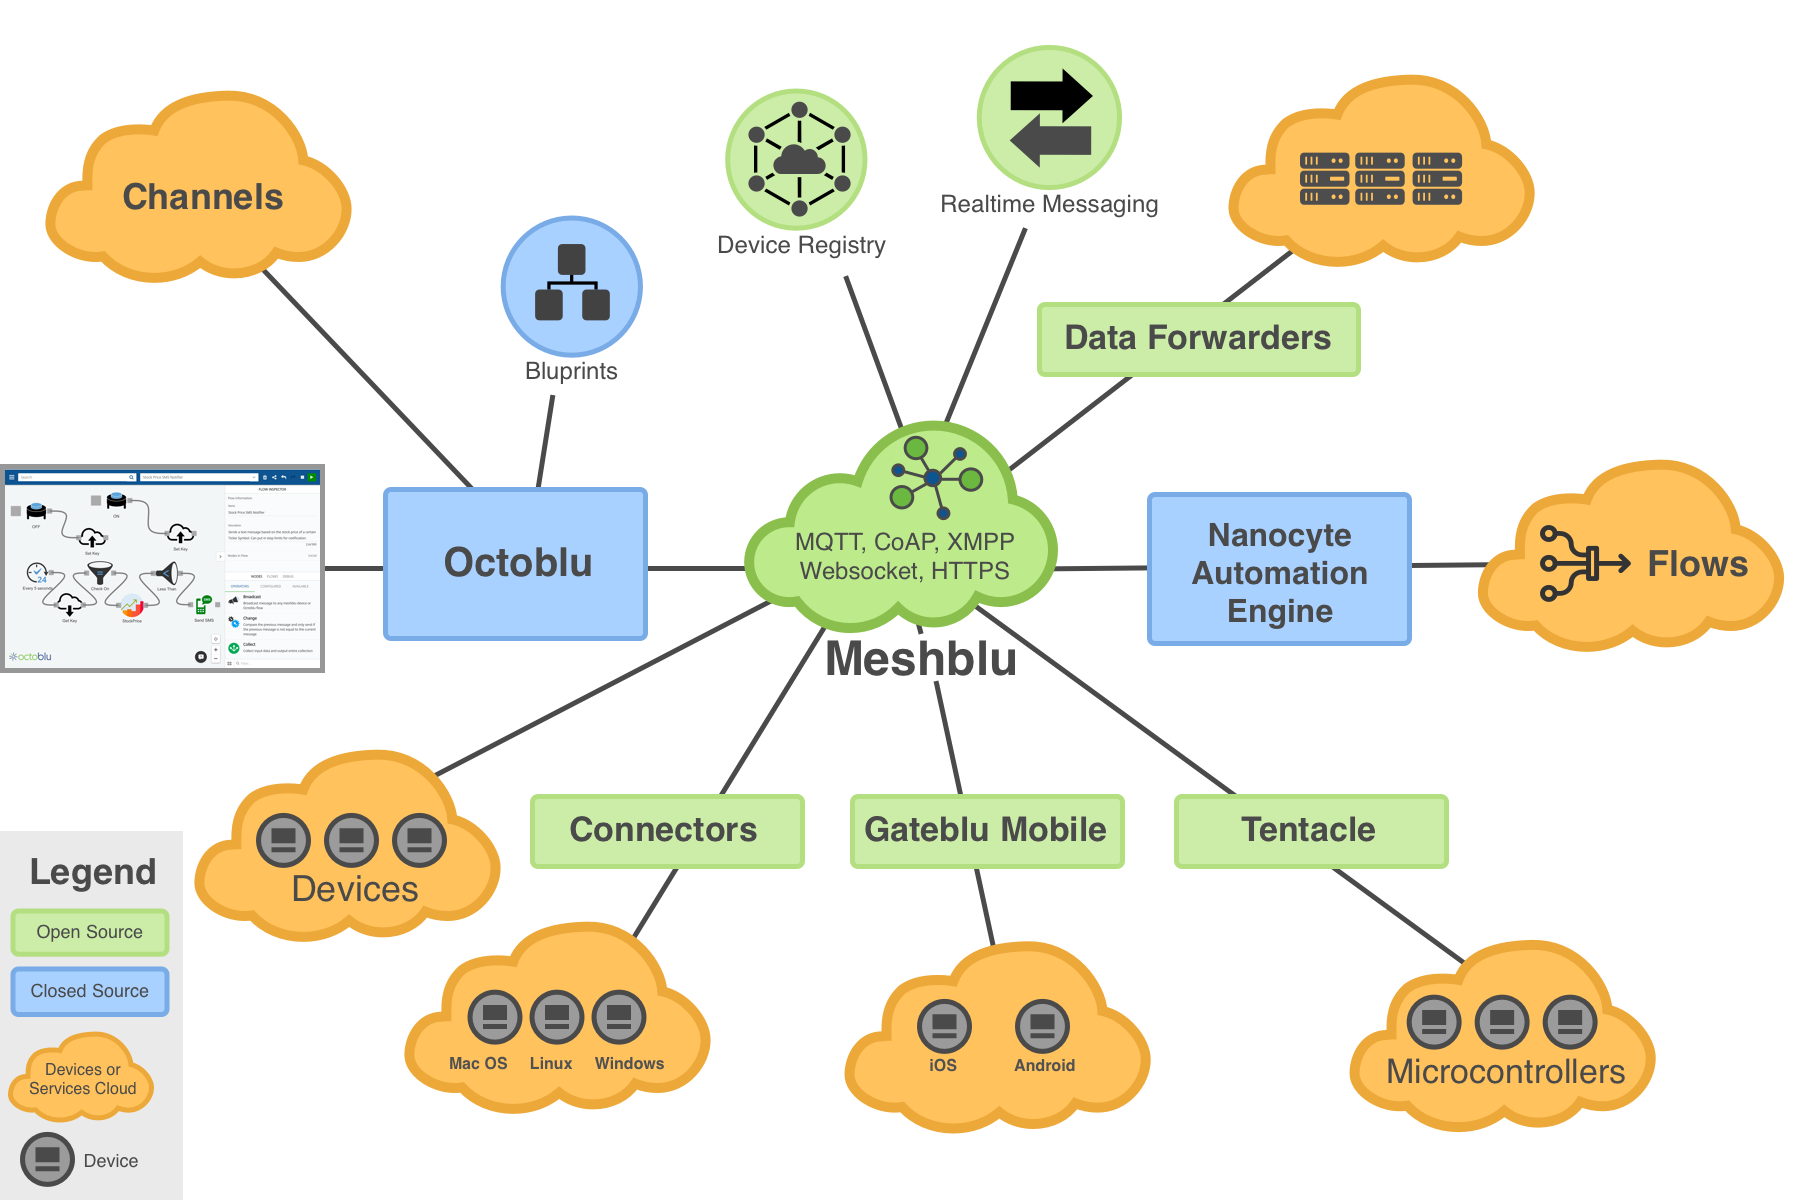
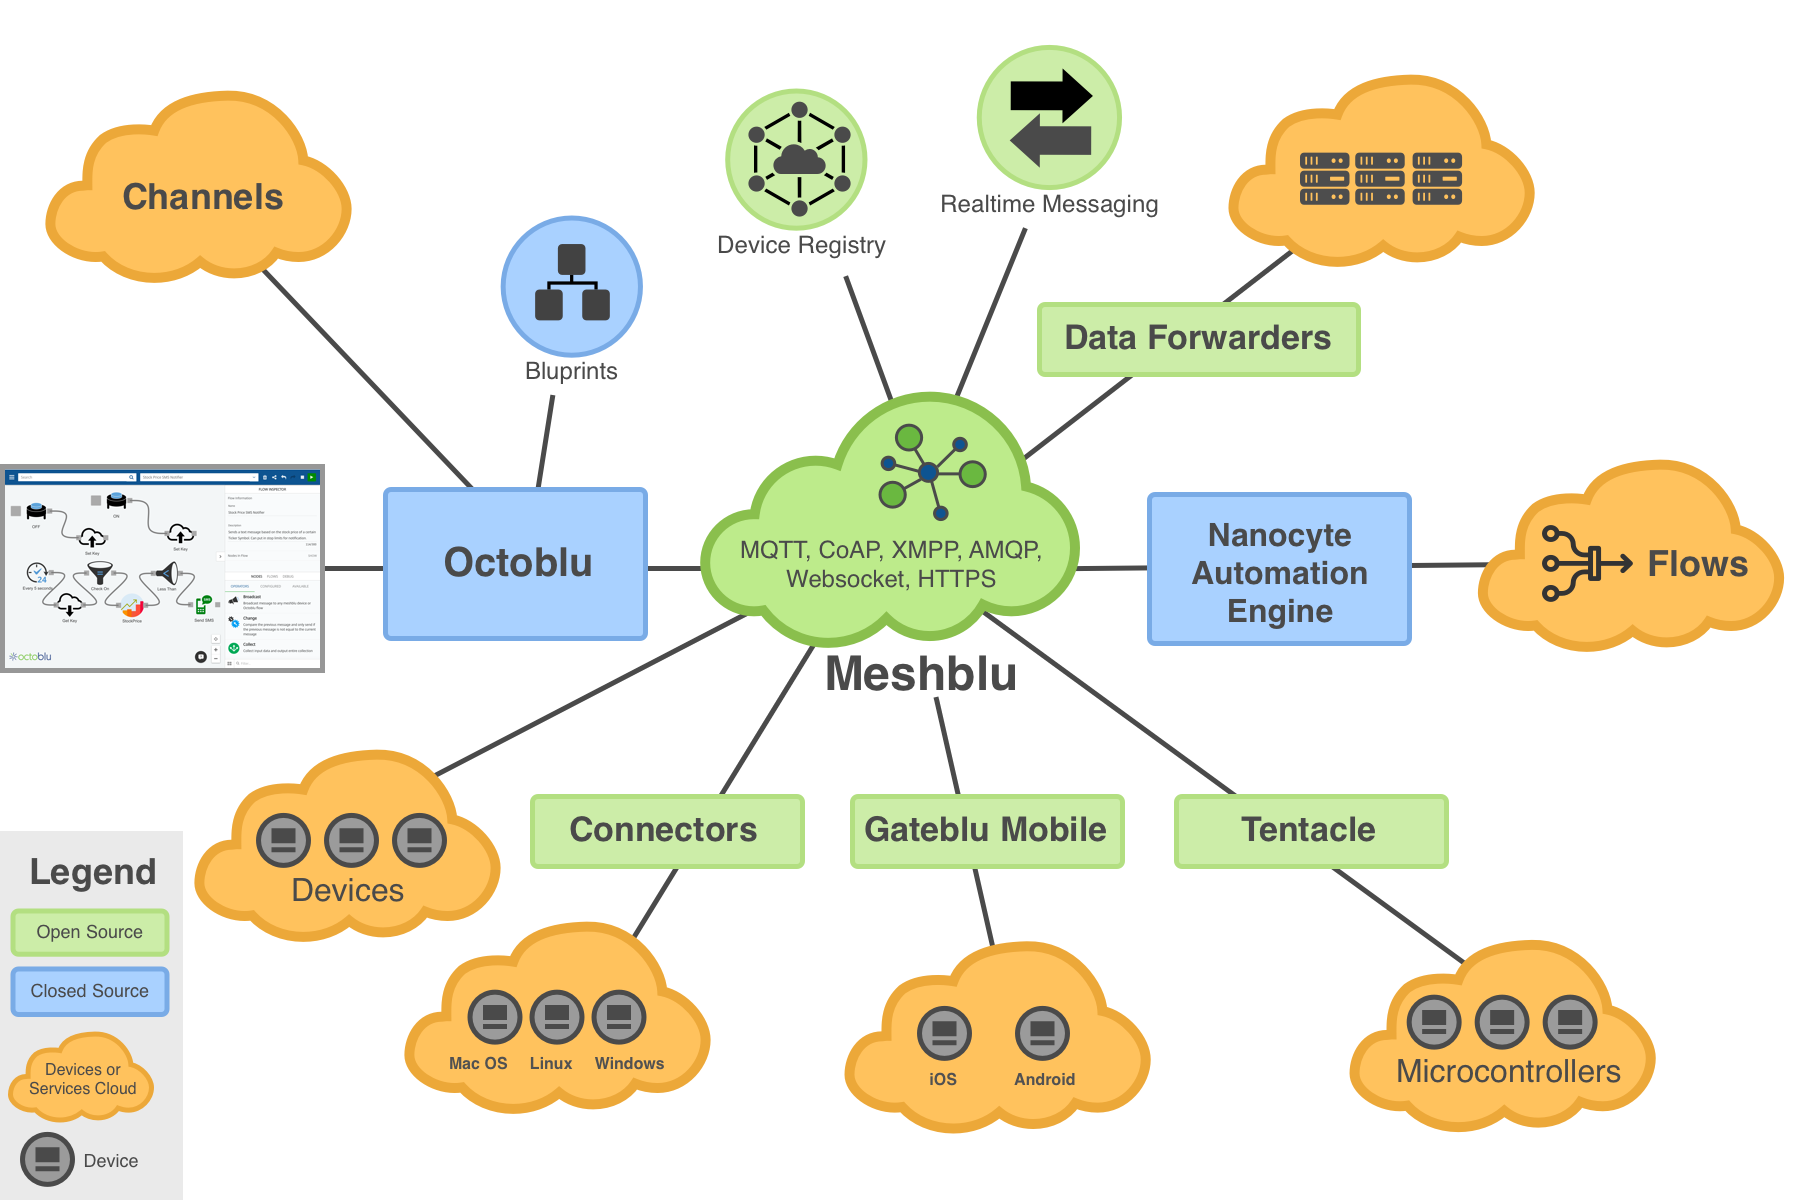
added amqp to website

diff --git a/site/index.html b/site/index.html
@@ -87,8 +87,9 @@
 					<div class="col-sm-8 col-sm-offset-2">
 						<h1 class="text-center">Octoblu Overview</h1>
             <br/>
-            <h2>Octoblu (<strong>now part of Citrix</strong>) is a full-stack Internet of Things messaging and automation platform that enables companies to create IoT services with secure real-time exchange of data. </h2><br/>
-						<p>Octoblu's IoT services are built on our open source <a href="https://developer.octoblu.com">Meshblu</a> platform, an open communications and management platform that supports a variety of protocols for physical devices to communicate seamlessly with each other, people, and web services. Through public, private, or hybrid clouds users can connect, design, process, and analyze the flow of information. All services have been designed through a robust security and right management architecture.</p>
+            <p style="font-size:1.5em">Octoblu (<strong>now part of Citrix</strong>) is a full-stack Internet of Things messaging and automation platform that enables companies to create IoT services with secure real-time exchange of data. </h2><br/>
+            <br/>
+            <p style="font-size:1.5em">Octoblu's IoT services are built on our open source <a href="https://developer.octoblu.com">Meshblu</a> platform, an open communications and management platform that supports a variety of protocols for physical devices to communicate seamlessly with each other, people, and web services. Through public, private, or hybrid clouds users can connect, design, process, and analyze the flow of information. All services have been designed through a robust security and right management architecture.</p>
 
             <div id="video-section">
               <div class="container">
@@ -102,8 +103,9 @@
               </div>
             </div>
 
-            <p>Our IoT platform can run as a SaaS offering in our cloud or as an on-premise private cloud or as an edge/mesh network in a home, car, construction site, retail store, emergency room, smart city, etc. </p>
-            <p>Even better, the entire Octoblu IoT stack can run on Intel, Dell, and/or HPE IoT Gateways!</p>
+            <p style="font-size:1.5em">Our IoT platform can run as a SaaS offering in our cloud or as an on-premise private cloud or as an edge/mesh network in a home, car, construction site, retail store, emergency room, smart city, etc. </p>
+            <br/>
+            <p style="font-size:1.5em">Even better, the entire Octoblu IoT stack can run on Intel, Dell, and HPE IoT Gateways!</p>
 
 					</div>
 				</div>
@@ -132,7 +134,7 @@
 						<h2>Connectors</h2>
 						<p>Octoblu connects smart devices, wearable devices, sensors, cars, homes, offices, robots and web services (REST APIs) together via our global mesh network!</p>
             <p>
-              Our platform allows like and unlike devices to communicate using HTTP, WebSockets, MQTT, CoAP, and XMPP. Additional protocols such as AllJoyn, BLE, XMPP, SNMP etc. can be bridged into Octoblu using our Gateblu gateway. We prefer to connect things to Octoblu via their native protocols. We also connect all of Citrix's products and third-party REST APIs together.
+              Our platform allows like and unlike devices to communicate using HTTP, WebSockets, MQTT, CoAP, XMPP, and AMQP. Additional protocols such as AllJoyn, BLE, SNMP etc. can be bridged into Octoblu using our Gateblu gateway. We prefer to connect things to Octoblu via their native protocols. We also connect all of Citrix's products and third-party REST APIs together.
             </p>
 					</div>
 				</div>
@@ -228,12 +230,12 @@
           <div class="col-sm-12 col-md-12">
             <div class="product-info">
               <h1 class="text-center">Solutions</h1><br/>
-              <h3>
+              <p style="font-size:1.5em">
                 With the market for smart devices growing exponentially, IoT is becoming an increasingly critical component of enterprise IT strategies. In conjunction with the Citrix enterprise suite, Octoblu offers a powerful solution for automating, monitoring, and analyzing the connected enterprise workspace.
-              </h3>
-              <h3>
+              </p><br/>
+              <p style="font-size:1.5em">
                 With Octoblu, Citrix is pioneering the Future of Work, where context-aware environments synthesize data from a variety of sources to respond to the needs of the user.
-              </h3>
+              </p>
             </div>
           </div>
         </div>
@@ -436,8 +438,8 @@
 			<div class="padding">
 				<div class="row section-title text-centerx">
 					<div class="col-sm-8 col-sm-offset-2">
-						<h1 class="text-center">Platform Specifications</h1>
-						<p>Octoblu is a full-stack Internet of Things platform capable of automating solutions in any vertical market. Approximately 80% of our IoT stack is open source (<span style="color:green">everything in green below</span>) with over 800 repositories available on <a href="https://github.com/octoblu">GitHub</a>.</p>
+						<h1 class="text-center">Platform Specifications</h1><br/>
+						<p style="font-size:1.5em">Octoblu is a full-stack Internet of Things platform capable of automating solutions in any vertical market. Approximately 80% of our IoT stack is <strong>open source</strong> (<span style="color:green">everything in green below</span>) with over 800 repositories available on <a href="https://github.com/octoblu">GitHub</a>.</p>
             <img class="img-responsive" src="images/others/architecture.png" alt="" />
 					</div>
 				</div>
@@ -452,6 +454,7 @@
 									<li>MQTT</li>
 									<li>CoAP</li>
                   <li>XMPP</li>
+                  <li>AMQP</li>
 									<li>AllJoyn (via Gateblu)</li>
 									<li>BLE (via Gateblu)</li>
 									<li>Wink (via Gateblu)</li>
@@ -468,6 +471,7 @@
 									<li><a href="https://meshblu-mqtt.readme.io/">MQTT API</a></li>
 									<li><a href="https://meshblu-coap.readme.io/">CoAP API</a></li>
                   <li><a href="https://meshblu-xmpp.readme.io/">XMPP API</a></li>
+                  <li><a href="https://meshblu-amqp.readme.io/">AMQP API</a></li>
 								</ul>
 							</div>
 						</div>
